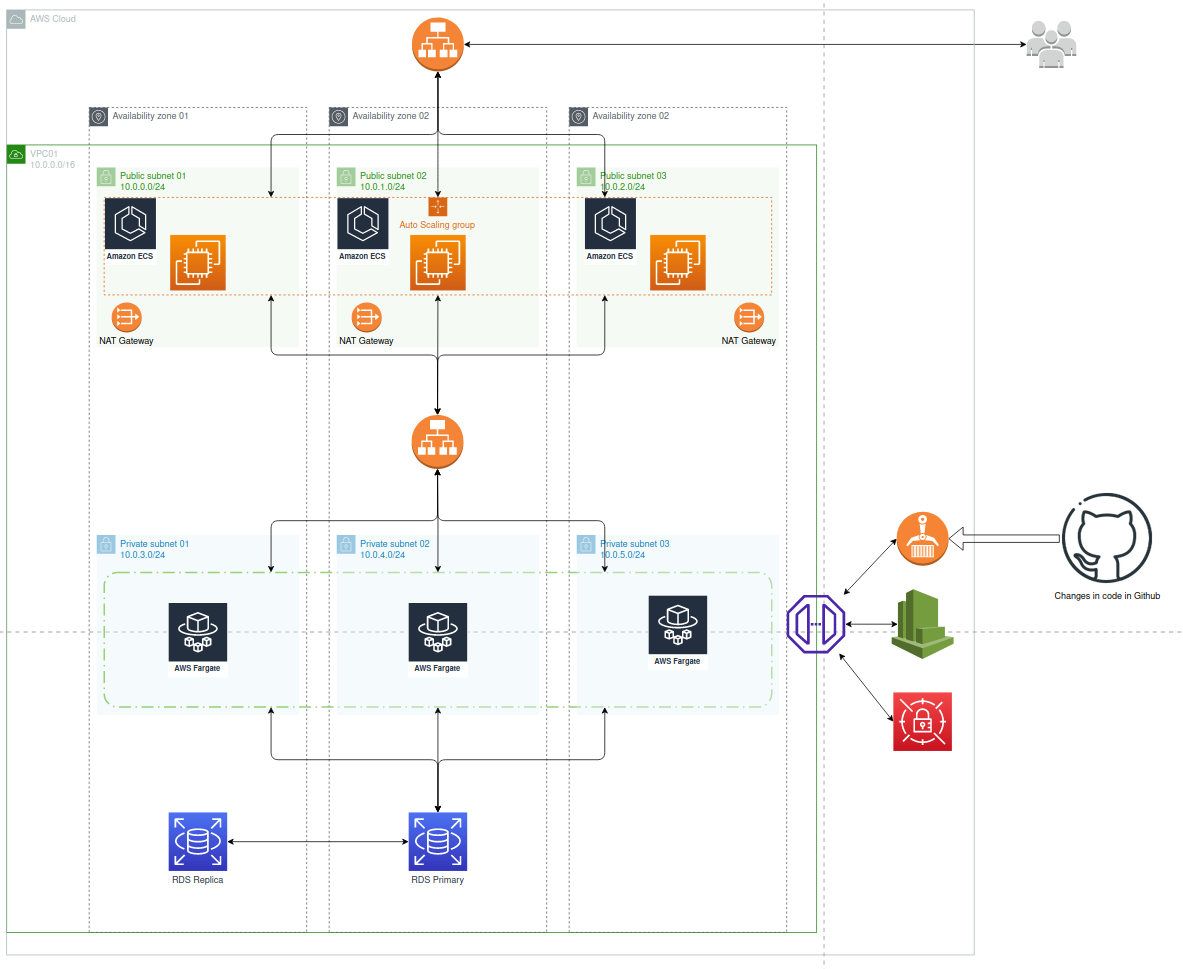
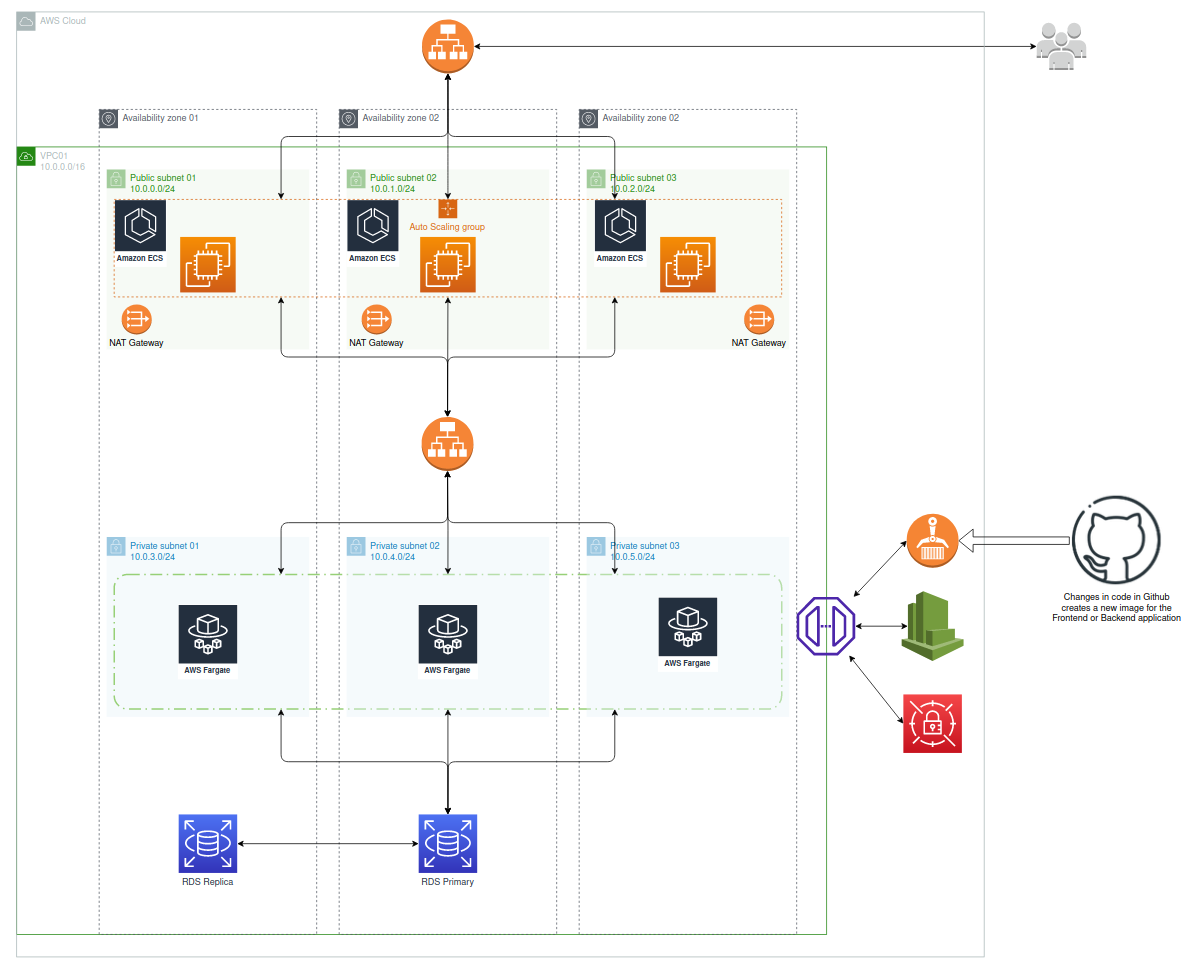
Add arch diagram

diff --git a/README.md b/README.md
@@ -89,7 +89,8 @@ List the ready features here:
 
 
 
-## Screenshots
+## Architectural Diagram
+![Architectural Diagram](/documents/architecture_diagram.png)
 
 
 
@@ -112,20 +113,13 @@ Project is: _Actively working_.
 ## Room for Improvement
 Include areas you believe need improvement / could be improved. Also add TODOs for future development.
 
-- Generate a VPC (VPC01) with private subnets, and the required subnets elements (Route tables, etc).
-
 - Provision an application using ECS with EC2 and Fargate with the following elements: public component, private component, database component and all the required elements (security groups, roles, log groups, etc). The components must we interconnected, so for example the public layer must connect to the application layer and the application layer must connect to the database layer. A load balancer with target and auto-scalation groups must be utilized for each layer.
-- For the database layer, use an AWS managed service.
 - Select and add five CloudWatch alarms related to the implementation. We require explanation about the reasons of the selected alarms.
 - A diagram with the implementation is required.
 - Security
-- Logging solution from ground up
-- Monitoring solution from ground up
-- Blue/Green deployments - https://docs.aws.amazon.com/AmazonECS/latest/developerguide/create-blue-green.html ?
 - Test then prod
 - Github pipelines
     - Docker scan in pipeline
-- Module pinning - Perhaps using https://github.com/philips-software/terraform-aws-ecs/tree/2.2.0 ?
 - Generate MFA for read only users.
 - Encrypt password for read only users.
 - Use spot instances for EC2 ECS.
